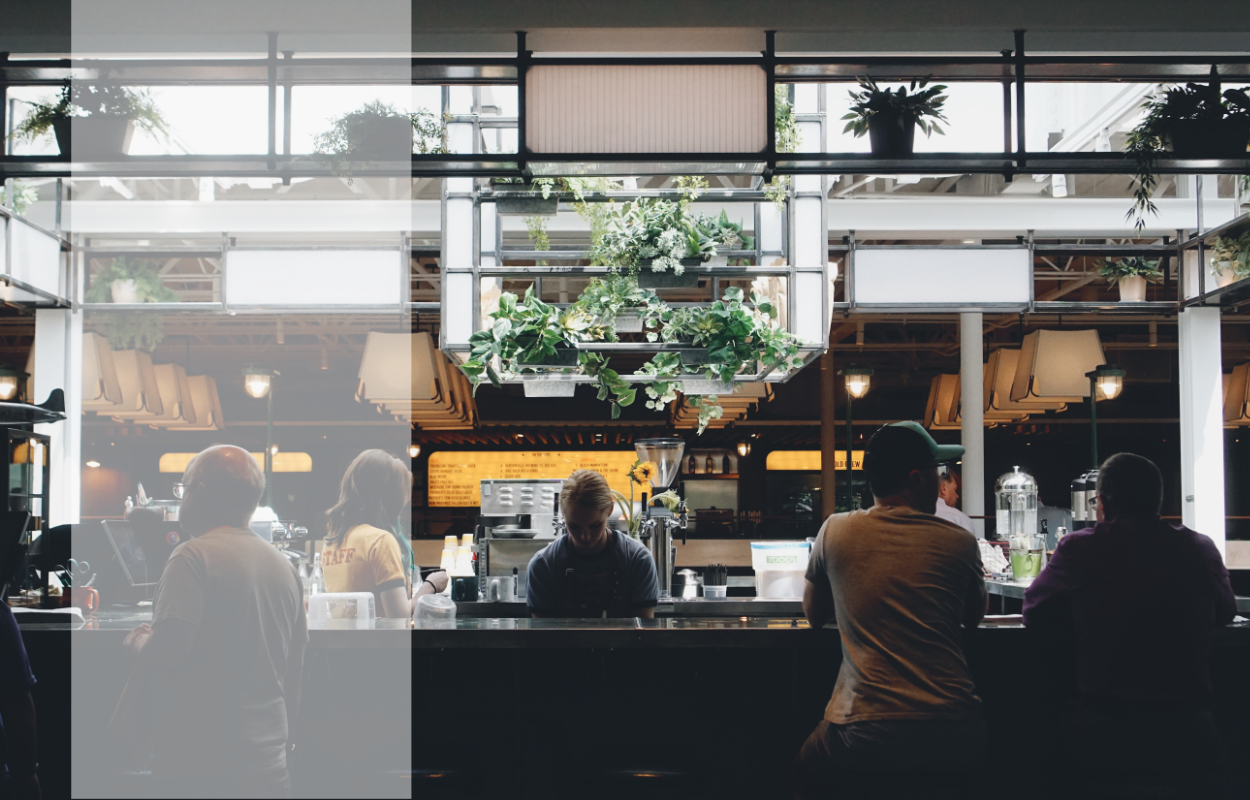
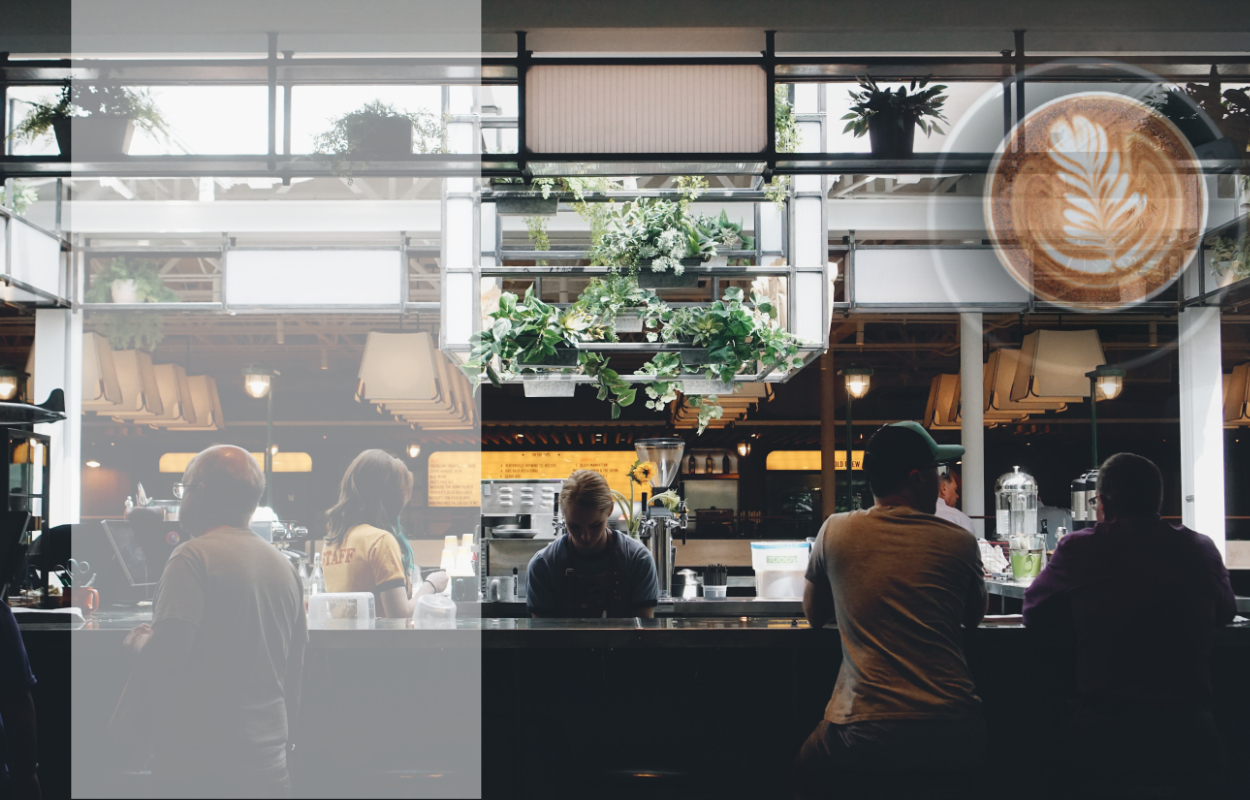
finalizing

Changed region(s): [[0.7176, 0.0625, 1.0, 0.5], [0.312, 0.0, 0.4056, 1.0]]

diff --git a/style2.css b/style2.css
@@ -1,6 +1,6 @@
 body {
     background-color: white;
-    background-image: url("cofeebg.jpg");
+    background-image: url("coffeebg.jpg");
     background-size: cover;
     background-repeat: no-repeat;
     background-attachment: fixed;
@@ -101,7 +101,7 @@ tbody#coffees {
 }
 #content{
     height: 600px;
-    padding-left: 80px;
+    padding-left: 100px;
 }
 #content2{
     background: white;
@@ -161,4 +161,8 @@ li img {
     padding: 20px;
     width: 200px;
     height: 250px;
+}
+midbar{
+    background-image: url("midbar.jpg");
+    height: 344px;
 }
